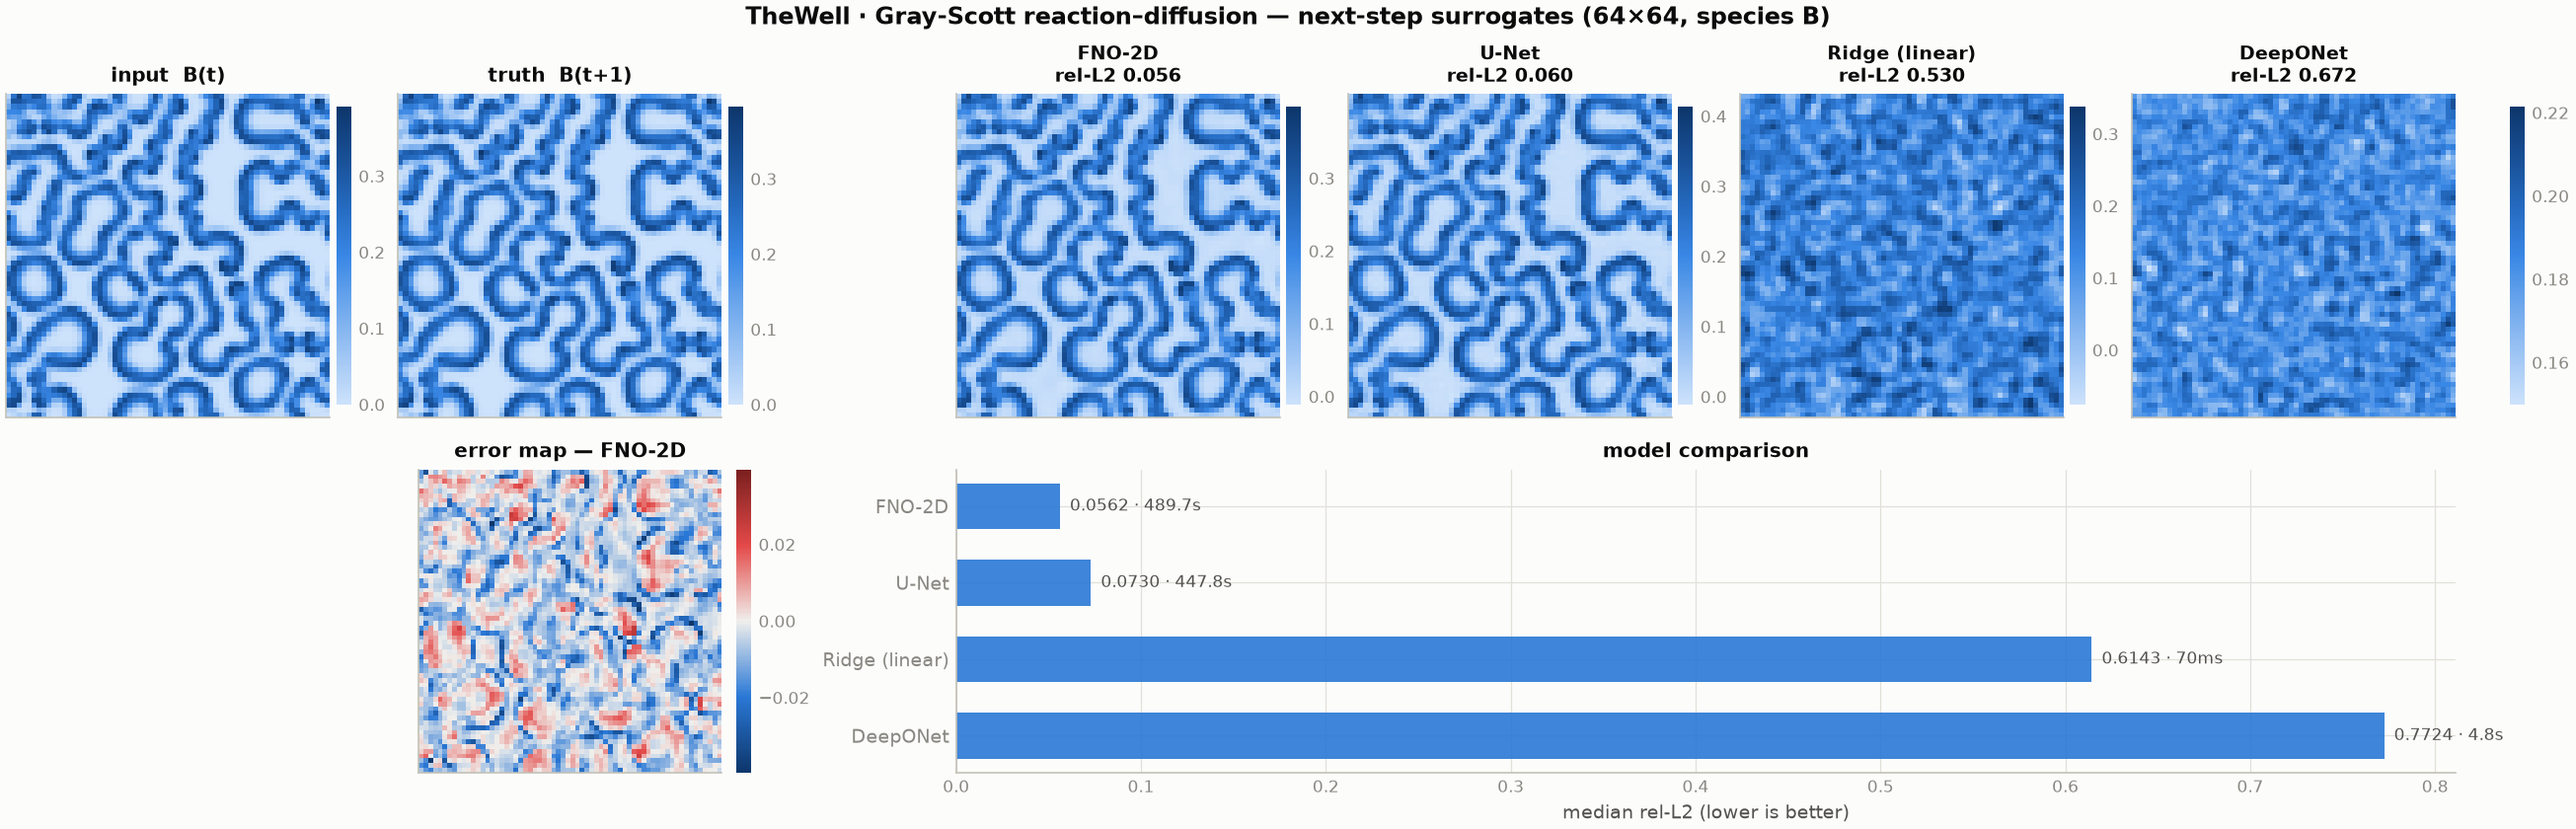
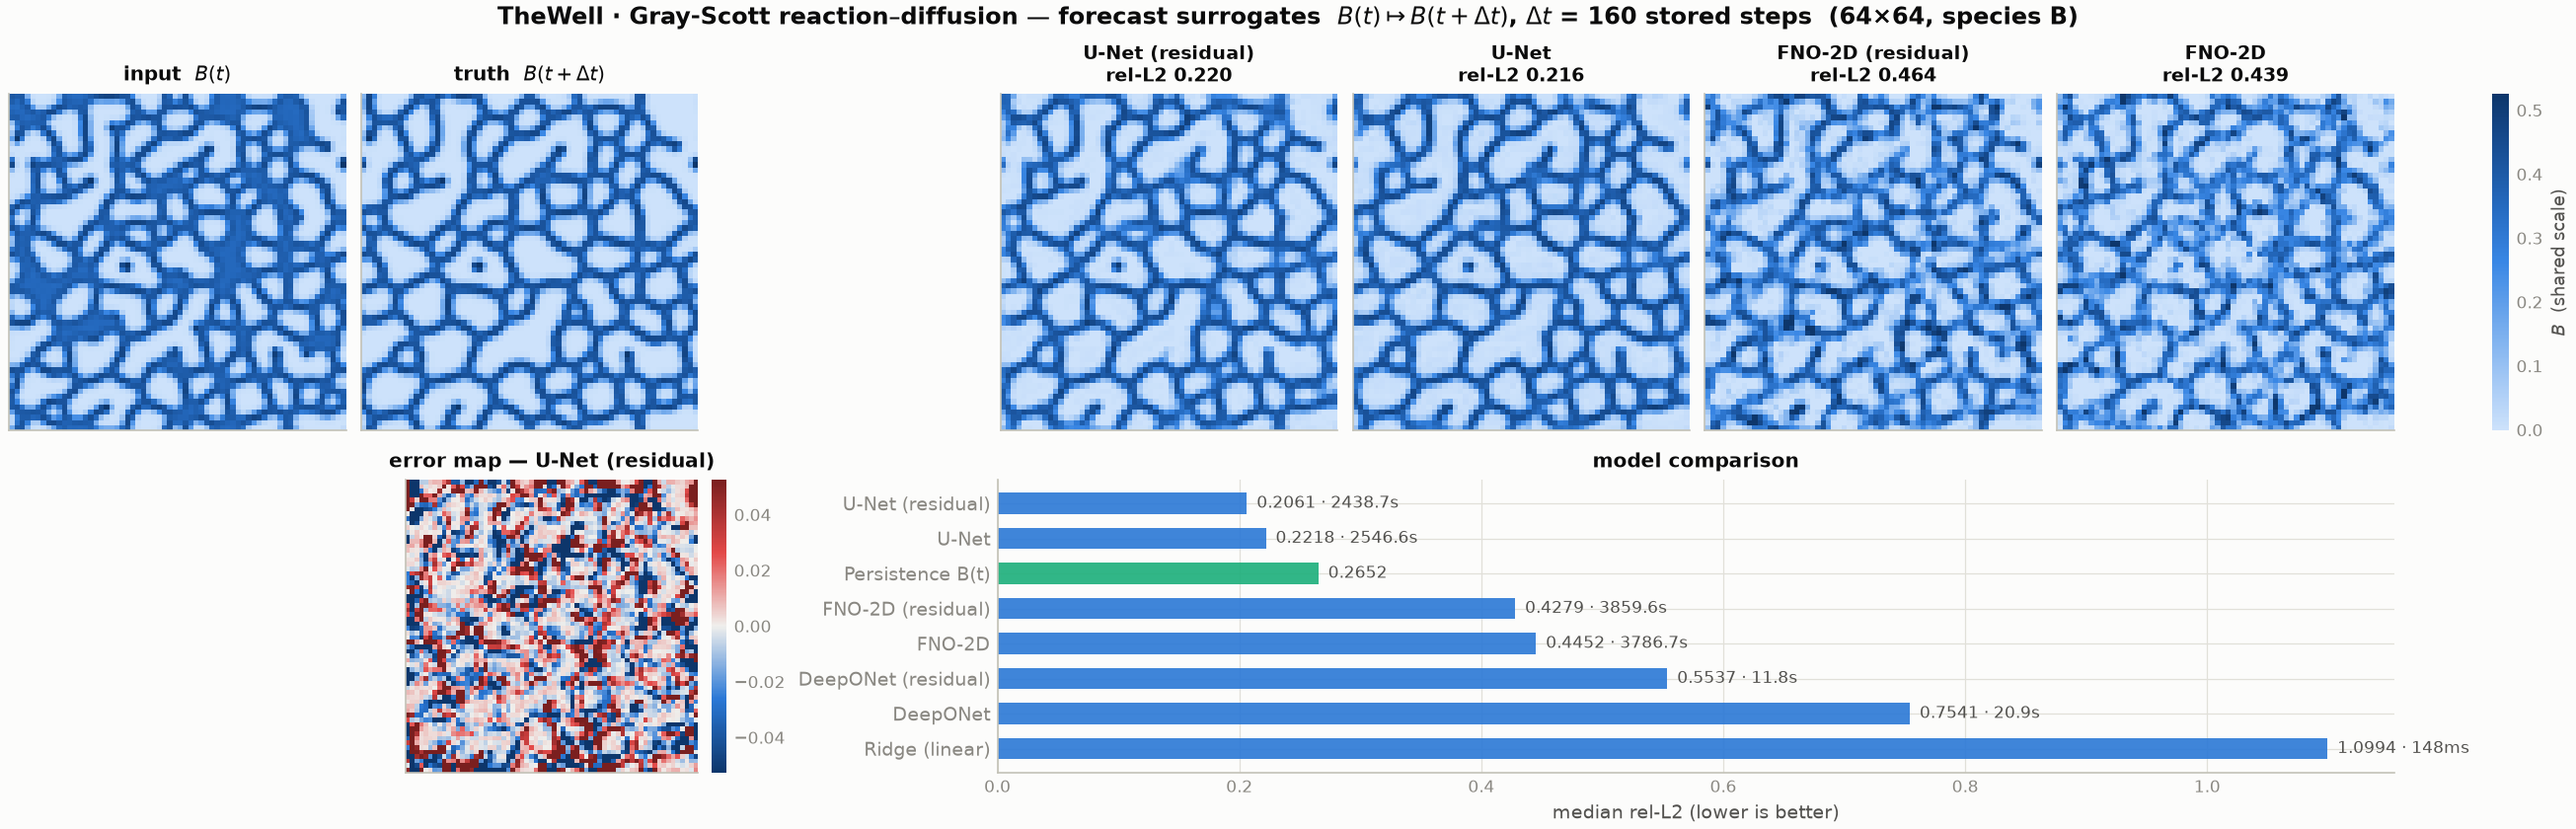
feat(benchmarks): Gray-Scott study as honest 160-step forecast with persistence gate
- single-step task was trivial: persistence (predict no change) scored
  rel-L2 0.002 and beat every model — replaced with a 160-stored-step
  forecast where persistence visibly fails (0.265)
- 7 surrogates + persistence baseline: U-Net (residual target) leads at
  0.206 and is the only architecture beating persistence; FNO-2D blurs
  the sharp interfaces at this horizon (0.428 with 24 modes+residual);
  DeepONet's global low-rank basis cannot localize (0.554)
- study saves predictions (thewell_grayscott_preds.npz) so figures can
  be rebuilt without retraining; residual-target variants for every
  architecture; image row capped at the four best models
- README + gallery narratives updated with the persistence-anchored
  story

diff --git a/examples/thewell_grayscott_study.py b/examples/thewell_grayscott_study.py
@@ -1,9 +1,12 @@
 #!/usr/bin/env python3
 """TheWell Gray-Scott surrogate study: FNO-2D vs U-Net vs DeepONet vs ridge.
 
-Task: next-step operator learning on the Gray-Scott reaction–diffusion
-system from TheWell (Ohana et al., NeurIPS 2024) — predict species-B
-concentration at the next stored timestep from the current field.
+Task: operator forecasting on the Gray-Scott reaction–diffusion system
+from TheWell (Ohana et al., NeurIPS 2024) — predict the species-B field
+160 stored timesteps ahead. A persistence baseline anchors the
+leaderboard: consecutive frames are so similar that the single-step task
+is trivial (persistence rel-L2 ~0.002), so the horizon is chosen where
+"predict no change" visibly fails (~0.28).
 
 Requires the dataset cache created by
 ``surge.benchmarks.loaders.thewell.download_thewell("gray_scott")``
@@ -115,8 +118,11 @@ def run_study(n_train: int, n_test: int, side: int, epochs: int, seed: int = 0,
     # represent "sharpen each filament in place", but the small residual
     # field is far easier to expand)
     candidates = [
-        ("pytorch.fno2d", "FNO-2D", {"n_modes": 12, "n_epochs": epochs}, False),
+        ("pytorch.fno2d", "FNO-2D", {"n_modes": 24, "n_epochs": epochs}, False),
+        ("pytorch.fno2d", "FNO-2D (residual)",
+         {"n_modes": 24, "n_epochs": epochs}, True),
         ("pytorch.unet", "U-Net", {"n_epochs": epochs}, False),
+        ("pytorch.unet", "U-Net (residual)", {"n_epochs": epochs}, True),
         ("pytorch.deeponet", "DeepONet", {"n_epochs": epochs}, False),
         ("pytorch.deeponet", "DeepONet (residual)", {"n_epochs": epochs}, True),
         ("sklearn.ridge", "Ridge (linear)", {}, False),
@@ -161,8 +167,9 @@ def study_figure(data, results, side: int, mode: str = "light"):
     truth_img = yte[i].reshape(side, side)
 
     # the persistence "prediction" is the input field itself — keep it in
-    # the comparison bars but don't show the same image twice
-    panels = [r for r in results if r["key"] != "baseline.persistence"]
+    # the comparison bars but don't show the same image twice; cap the image
+    # row at the four best models so the figure stays readable
+    panels = [r for r in results if r["key"] != "baseline.persistence"][:4]
 
     with surge_theme(mode) as p:
         n_models = len(panels)
@@ -227,8 +234,8 @@ def study_figure(data, results, side: int, mode: str = "light"):
         ax.set_title("model comparison", fontsize=9.5)
 
         fig.suptitle(
-            "TheWell · Gray-Scott reaction–diffusion — next-step surrogates"
-            r"  $B(t) \mapsto B(t+\Delta t)$"
+            "TheWell · Gray-Scott reaction–diffusion — forecast surrogates"
+            r"  $B(t) \mapsto B(t+\Delta t)$, $\Delta t$ = 160 stored steps"
             f"  ({side}×{side}, species B)",
             fontsize=11.5, fontweight="bold")
         return fig
@@ -255,6 +262,11 @@ def main():
         for path in save_figure(fig, out / f"thewell_grayscott_{mode}"):
             print("wrote", path)
         plt.close(fig)
+    (Xte, yte) = data
+    np.savez_compressed(
+        out / "thewell_grayscott_preds.npz",
+        Xte=Xte, yte=yte,
+        **{f"pred__{r['label']}": r["pred"] for r in results})
     summary = [{k: v for k, v in r.items() if k not in ("pred", "rel")}
                for r in results]
     (out / "thewell_grayscott_summary.json").write_text(

diff --git a/README.md b/README.md
@@ -98,11 +98,16 @@ same task shape):
 | <picture><source media="(prefers-color-scheme: dark)" srcset="docs/assets/readme/dark/field2d_truth.png"><img src="docs/assets/readme/field2d_truth.png" alt="Truth solution field u(x,y)"/></picture> | <picture><source media="(prefers-color-scheme: dark)" srcset="docs/assets/readme/dark/field2d_prediction.png"><img src="docs/assets/readme/field2d_prediction.png" alt="FNO-2D predicted field"/></picture> | <picture><source media="(prefers-color-scheme: dark)" srcset="docs/assets/readme/dark/field2d_error.png"><img src="docs/assets/readme/field2d_error.png" alt="Signed prediction error on a diverging colormap"/></picture> |
 
 **External PDE benchmark — [TheWell](https://polymathic-ai.org/the_well/)
-Gray-Scott reaction–diffusion** (Ohana et al., NeurIPS 2024). Four registry
-models on the same next-step operator task, one script
+Gray-Scott reaction–diffusion** (Ohana et al., NeurIPS 2024). Forecast the
+species-B field **160 stored steps ahead** — the horizon is chosen so that
+the *persistence* baseline ("predict no change", green bar) visibly fails,
+because at single-step the task is trivial (persistence rel-L2 0.002 beats
+every model). Seven registry surrogates, one script
 ([`examples/thewell_grayscott_study.py`](examples/thewell_grayscott_study.py)):
-FNO-2D median rel-L2 **0.056**, U-Net **0.073** — both reproduce the Turing
-pattern; DeepONet and a ridge baseline can't:
+**U-Net (residual target) leads at median rel-L2 0.206** and is the only
+architecture that beats persistence (0.265); FNO-2D blurs the sharp Turing
+interfaces at this horizon (0.428 even with 24 modes + residual target), and
+DeepONet's global low-rank basis can't localize (0.554):
 
 <p align="center">
   <picture><source media="(prefers-color-scheme: dark)" srcset="docs/assets/readme/dark/thewell_grayscott.png"><img src="docs/assets/readme/thewell_grayscott.png"

diff --git a/docs/gallery.md b/docs/gallery.md
@@ -7,6 +7,7 @@ dark variants, deterministic PNG/SVG/PDF) with:
 
 ```bash
 python examples/viz_theme_gallery.py
+python scripts/sync_readme_assets.py                        # curate into docs/
 python -m surge.report.leaderboard --out leaderboard.html   # dashboard
 ```
 
@@ -60,11 +61,15 @@ same task shape.
 
 ## External PDE benchmark — TheWell Gray-Scott
 
-Next-step operator learning on the Gray-Scott reaction–diffusion system
-from [TheWell](https://polymathic-ai.org/the_well/) (Ohana et al.,
-NeurIPS 2024): four registry models on identical 64×64 species-B fields.
-FNO-2D (median rel-L2 0.056) and U-Net (0.073) reproduce the Turing
-pattern; DeepONet and a ridge baseline cannot. Reproduce with:
+Operator forecasting on the Gray-Scott reaction–diffusion system from
+[TheWell](https://polymathic-ai.org/the_well/) (Ohana et al., NeurIPS
+2024): predict the 64×64 species-B field 160 stored steps ahead. The
+horizon is set where the persistence baseline ("predict no change",
+green bar) visibly fails — at single-step the task is trivial
+(persistence rel-L2 0.002). U-Net with a residual target leads (median
+rel-L2 0.206) and is the only architecture beating persistence (0.265);
+FNO-2D blurs the sharp Turing interfaces at this horizon and DeepONet's
+global low-rank basis cannot localize. Reproduce with:
 
 ```bash
 # note: the full Gray-Scott archive is ~132 GB (117 train + 15 valid)
